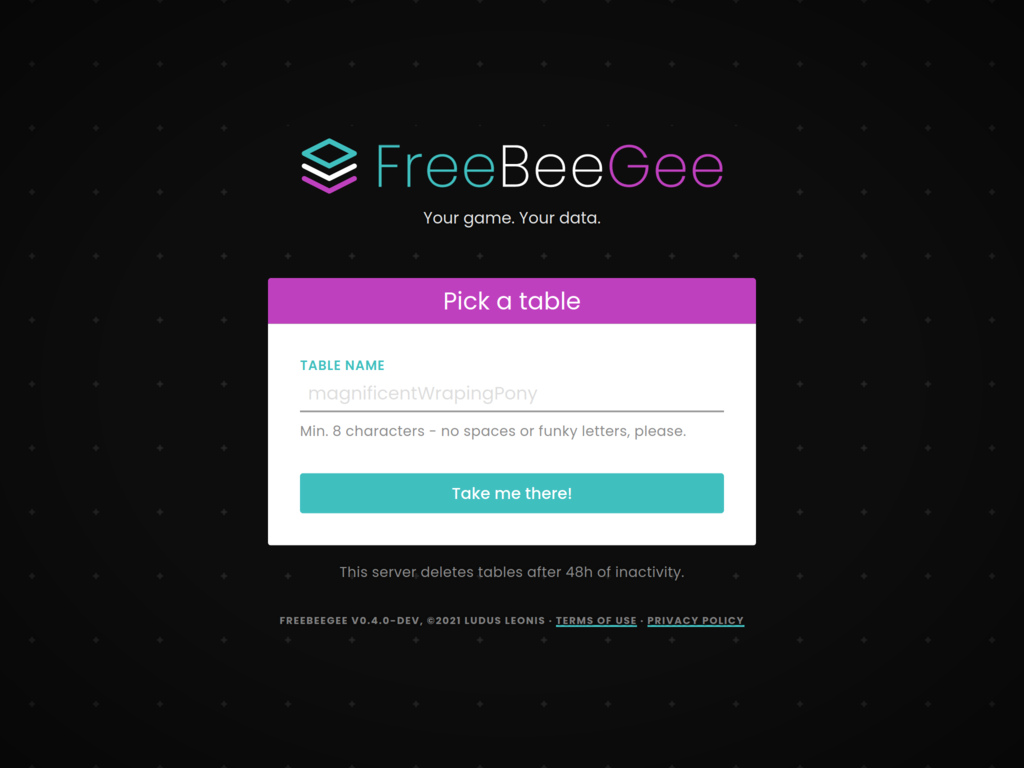
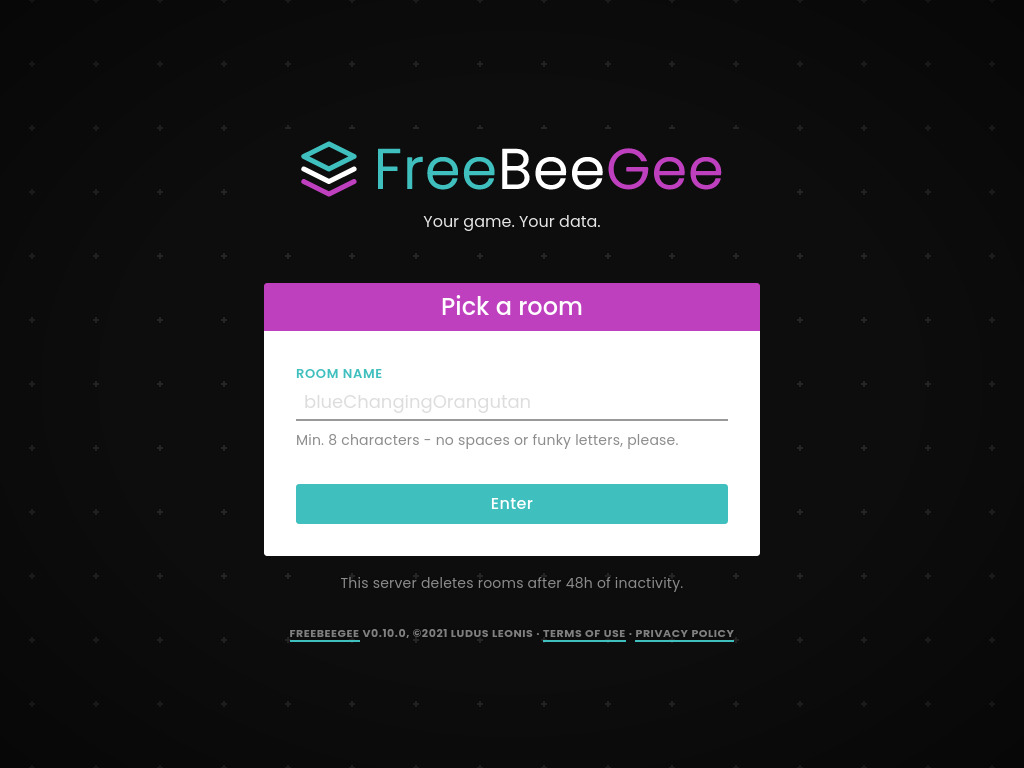
updated docs

Changed region(s): [[0.25, 0.3438, 0.75, 0.8438], [0.2812, 0.1875, 0.7188, 0.25], [0.4062, 0.2812, 0.5938, 0.3125]]

diff --git a/docs/roadmap.md b/docs/roadmap.md
@@ -2,20 +2,20 @@
 
 This document is part of the [FreeBeeGee documentation](DOCS.md). It contains a list what might happen next. However, priorities may change.
 
-## v0.10 - Pointing Pony
+## v0.11 - ???
 
-* [X] pointer feature
-* [X] different edit modals per piece type (hide useless fields)
-* [X] token status (blind, poison, prone, dazed, ...)
-* [X] unit tests for client data model
+* [ ] table passwords
+* [ ] empty table template
+* [ ] slight table texture offset for different tables 1..9
+* [ ] more table backgrounds
+* [ ] click thru / don't drag on transparent parts of images
+* [ ] use image masks for png backsides
+* [ ] rightclick on table
+  * [ ] add piece
+  * [ ] change table 1..9
+  * [ ] change background
 * [ ] pre-release
-  * [X] bugfixing
-    * [X] css cleanup
-    * [X] note rotation
-    * [X] autofocus search in library not always working
-    * [X] wrong snapshot filename timezone
-    * [X] library tab sometimes wrong size
-    * [X] tolerate expires field on snapshot load
+  * [ ] bugfixing
   * [ ] review + run tests
   * [ ] update screenshots
   * [ ] review docs
@@ -26,11 +26,9 @@ This document is part of the [FreeBeeGee documentation](DOCS.md). It contains a 
 * better tablet / touch support
   * zooming
   * moving pieces
-* table passwords
 
 ## v0.yy - Clean Cat
 
-* empty template table
 * reduce impact of "back" button
 * concurrent drag-n-drop - first mover wins
 * (bulk) manipulation of assets (delete, edit, change type)
@@ -42,15 +40,12 @@ This document is part of the [FreeBeeGee documentation](DOCS.md). It contains a 
 
 ### rather sooner
 
-* slightly table texture offset for different tables 1..9
 * generic marker overlay (X, ?, ...)
 * docs how to make table/template `.zip`s
-* click thru / don't drag on transparent parts of images
 * LOS-ruler
-* more tabletop settings (e.g. change background, grid)
+* more tabletop settings (e.g. grid)
 * undo (limited)
 * demo mode (serverless?)
-* use image masks for png backsides
 * show backside/all sides in tile browser
 * better sticky notes (more text, auto-size text)
 * protect pieces (no-delete, no-move)
@@ -60,15 +55,13 @@ This document is part of the [FreeBeeGee documentation](DOCS.md). It contains a 
 * support for stacks/decks of cards
   * shuffle deck/stack
 * option to force-install templates with invalid versions
-* rightclick on desk -> add piece popup
 * multi-select stuff
-* add more classic game boards: go, backgammon, mills, solitaire
+* add more classic game boards: backgammon, mills, solitaire
 * "layer not active" hint when dragging nothing
 * I18N
 * show even more infos in media browser
 * full-screen key
 * dedicated HP/Mana/Value field(s)
-* token status (blind, poison, prone, dazed, ...)
 * obfuscate/hash room name
 * pinboard for handouts
 * tour / first-time-tutorial

diff --git a/CHANGELOG.md b/CHANGELOG.md
@@ -6,13 +6,21 @@ Download current and previous versions from [https://github.com/ludus-leonis/Fre
 
 This is a breaking release changing internal data structures. Old snapshots will no longer work.
 
-* added laser pointer
-* added status icons for pieces
-* refactored wording table -> room, sub-table -> table
-* refactored JS file layout
-* fixed spacings
-* added more technical documentation & TOC
+* added laser-pointer feature
+* added status icons/tags for pieces
+* added individual edit windows per piece types
+* added glass tiles to RPG template for brighter/darker tiles
+
 * fixed snapshot filename to match client timezone
+* fixed php8 compatibility issue
+* fixed image/piece upload
+* fixed search field not focused on library open
+* fixed sticky note rotation
+* tweaked spacings + font sizes
+* refactored refactored wording table->room, subtable->table, state->table
+* refactored JS file layout
+* added basic frontend JS unit tests
+* added more technical documentation & TOC
 
 ## v0.9.0 - Happy Hamster
 
